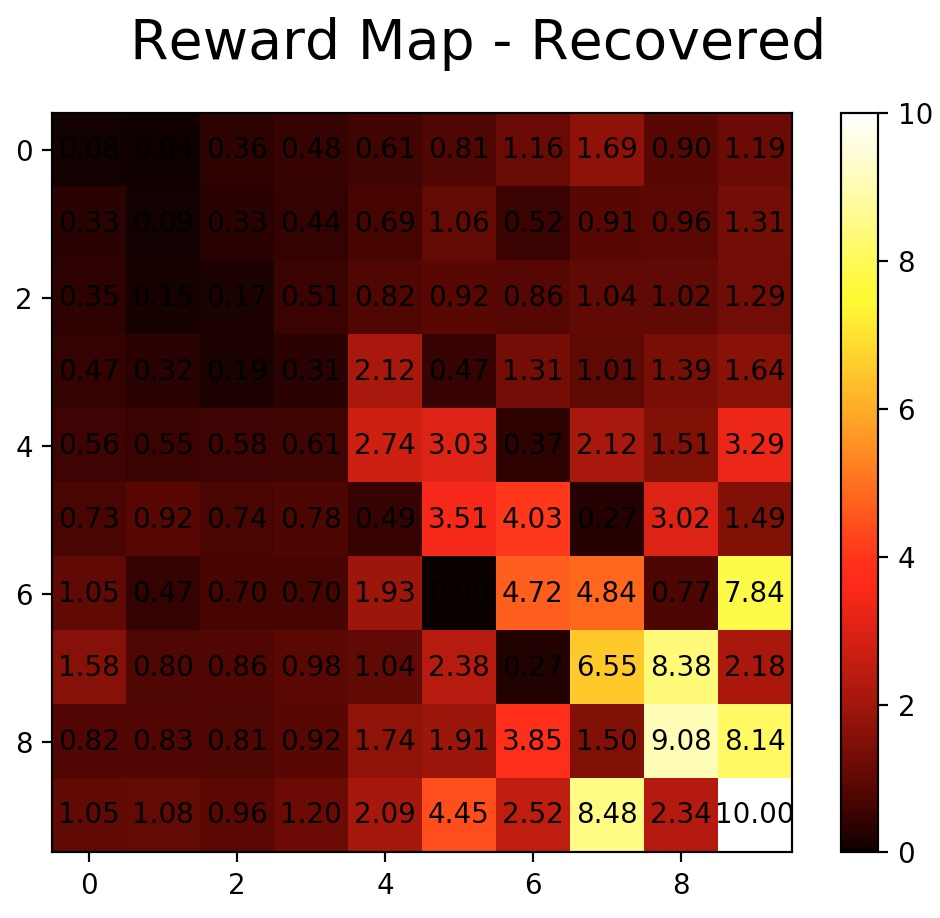
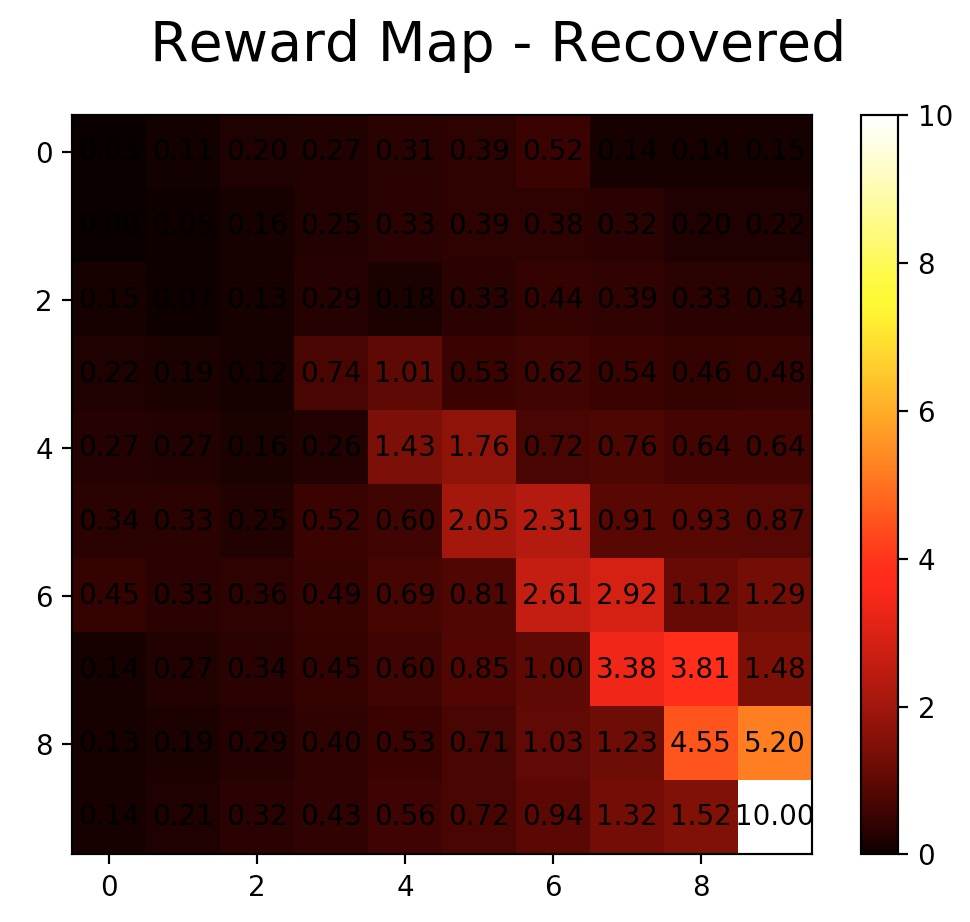
gamma = 0.5

diff --git a/gridworld/playground.py b/gridworld/playground.py
@@ -16,7 +16,7 @@ H = 10
 W = 10
 N_STATES = H*W
 N_ACTIONS = 5
-GAMMA = 0.8
+GAMMA = 0.5
 # with probability of ACT_RAND not following the action given
 ACT_RAND = 0.3
 R_MAX = 10
